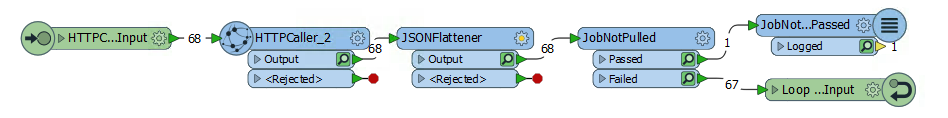
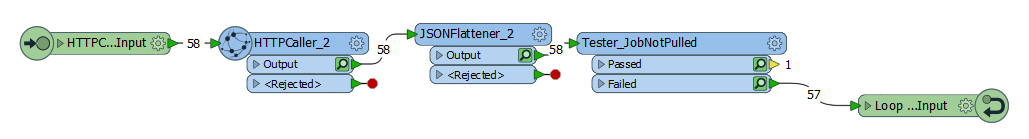
Chapter4Updates

Changed region(s): [[0.0, 0.0508, 0.9789, 0.9153]]

diff --git a/FMESERVER_RESTAPI4Workspaces/4.6.Exercise.md b/FMESERVER_RESTAPI4Workspaces/4.6.Exercise.md
@@ -44,19 +44,18 @@ the response is positive the next workspace will run. So let's begin!
 
 *Create a call to run asynchronously*
 
-<br>**1) Create a new workspace in Workbench**
+<br>**1) Create a new workspace in Workbench and add a Creator Transformer to the canvas** <br>
 
-<br>**2) Add a Creator Transformer to the Page** <br>
-First, add the creator to the page. Keeping the default settings are okay, this will just trigger the workspace to run.
+Open a new FME workspace and then add a Creator transformer to the canvas. Keeping the default settings are okay. The Creator creates a single feature which will initiate the HTTP caller.
 
-<br>**3) Add an HTTPCaller to the Page** <br>
+<br>**2) Add an HTTPCaller to the canvas** <br>
 Next, add the HTTPCaller. Use the Request URL to write a submit command. You may use the call below or test it out with another workspace.
 
 There are a few different ways to authorization with FME Server in the HTTPCaller:
 
 1. Use the token in the URL as a query string parameter
-2. Use the token in the authorization header 
-3. Check use authentication and set to basic authentication and enter your username and password 
+2. Use the token in the authorization header
+3. Check use authentication and set to basic authentication and enter your username and password
 4. Check use authentication and set up an FME Server Web Connection
 
 ---
@@ -86,7 +85,7 @@ In the beginning of the course we discussed the difference between authenticatio
 
 The first sections in the HTTPCaller to fill out is the Request and Headers. The layout in the HTTPCaller is very simple because all the areas to fill are clearly labeled.
 
-Please note this is an example call which can be found in the [Rest API POST](https://docs.safe.com/fme/html/FME_REST/apidoc/v3/index.html#!/transformations/submit_post_22) documentation. 
+Please note this is an example call which can be found in the [Rest API POST](https://docs.safe.com/fme/html/FME_REST/apidoc/v3/index.html#!/transformations/submit_post_22) documentation.
 
 
 First, paste the Request URL in. Then, change the HTTP Method to Post. Update the Headers.
@@ -129,7 +128,24 @@ Next, find the **Content Type** section and specify JSON (application/json). The
 
 
 
-<br>**4) Check the Output From the HTTPCaller**
+<br>**3) Check the Output From the HTTPCaller**
+
+<table style="border-spacing: 0px">
+<tr>
+<td style="vertical-align:middle;background-color:darkorange;border: 2px solid darkorange">
+<i class="fa fa-bolt fa-lg fa-pull-left fa-fw" style="color:white;padding-right: 12px;vertical-align:text-top"></i>
+<span style="color:white;font-size:x-large;font-weight: bold;font-family:serif">NEW to FME Workbench 2018</span>
+</td>
+</tr>
+
+<tr>
+<td style="border: 1px solid darkorange">
+<span style="font-family:serif; font-style:italic; font-size:larger">
+In this exercise we are using Feature Caching. Feature Caching is a tool that allows a user to inspect the output of every transformer in their workspace after it has run. It also allows for partial runs of a workspace. This means you do not have to start at the beginning of a workspace and run to the end. You may choose where the run begins and ends. For more information on feature caching, please read the Safe Blog post on [feature caching.](https://blog.safe.com/2018/05/caching-data-fme-evangelist174/)
+</span>
+</td>
+</tr>
+</table>
 
 Attach loggers to the HTTPCaller and run the workspace with Feature Caching turned on. To do this click Run in the top toolbar and select Run with Feature Caching.
 
@@ -142,7 +158,7 @@ The logger will write to a text file where your workspace is saved and write to 
 
 The log file includes the response body and the response code.
 
-![](./Images/image4.6.5.LogFile.png)
+![](./Images/image4.6.5.Logfile.png)
 
 
 
@@ -173,7 +189,7 @@ While the FME Server REST API does not limit the number of calls you can make. O
 
 ---
 
-<br>**5) Add a JSONFlattener to the Page**
+<br>**4) Add a JSONFlattener to the canvas**
 
 Now you can add the JSONFlattener. The JSONFlattener allows you to select a part of the JSON to expose, in our case we should expose the id, so we can use it for the next call.
 
@@ -181,7 +197,7 @@ Now you can add the JSONFlattener. The JSONFlattener allows you to select a part
 
 
 
-<br>**6) Select the JSONFlattener and Click Run To This**
+<br>**5) Select the JSONFlattener and Click Run To This**
 
 We want to review the JSONFlattener and ensure that it is producing an attribute with just the Job ID.
 
@@ -194,7 +210,7 @@ Once, we rerun the workspace, we can select the Data Inspector symbol to review 
 
 *Click the magnifying glass to review the results*
 
-![](./Images/image4.6.8.JobId.png)
+![](./Images/image4.6.8.jobid.png)
 
 *Here we can see that the new attribute was successfully created*
 
@@ -204,7 +220,7 @@ Once, we rerun the workspace, we can select the Data Inspector symbol to review 
 The goal is this next section is to send a call out to the server to check if the previous job was successful. If the call is successful, then we can run a new job. However, this workspace runs so quickly that the FME Server would not have time to process the previous job before the new call is made. So in this section, we will be creating a custom transformer that will continually get the job status until the job has been completed.
 
 
-<br>**7) Add an HTTPCaller**
+<br>**6) Add an HTTPCaller**
 
 We will add a **HTTPCaller.** In the HTTPCaller, click on the drop-down menu next to the Request URL and click open Text Editor. Paste the request and for the id double-click on this icon ![](./Images/image4.6.7a.png) from the FME Feature Attributes side panel. Your call should look like this:
 
@@ -218,11 +234,11 @@ Now for the response in the HTTPCaller, we are going to change the Response Body
 
 
 
-<br>**8) Check the Output From the HTTPCaller**
+<br>**7) Check the Output From the HTTPCaller**
 
-Now, right click on the HTTPCaller_2 and select Run to This. From here we can click on the magnifying glass to view the response.
+Now, right click on the HTTPCaller_2 and select Run to This. From here we can click on the magnifying glass to view the response in the FME Data Inspector.
 
-![](./Images/image4.6.9.HTTPCallerOutput.png)
+![](./Images/image4.6.9.Pulled.png)
 
 
 
@@ -232,10 +248,9 @@ However, at the very end, we can see the status. Here you should see "status":"P
 
 So know we need to extract that section of the response to test whether the call was successful. For that, we need another JSONFlattener.
 
-<br>**9) Add a JSONFlattener**
+<br>**8) Add a JSONFlattener**
 
- Next, we need another **JSONFlattener** to expose the
-status code from the job\_status attribute. So, for the
+ Back in FME Workbench, add another JSONFlattener. So, for the
 input parameters under JSON Document, we are going to select
 job\_status. Then under attributes to expose write status.
 
@@ -243,38 +258,51 @@ job\_status. Then under attributes to expose write status.
 
 
 
-<br>**10) Add a Tester**
+<br>**9) Add a Tester**
 
-Now we are going to add a **Tester** to determine if the workspace is pulled or run. If the status is "PULLED" then the job has not been run yet. So for the job to be completed status must not equal PULLED. The tester should be set up like this:
+Now we are going to add a **Tester** to determine if the workspace is pulled or run. If the status is "PULLED" then the job has not been run yet. So for the job to be completed status must not equal PULLED.
 
-![](./Images/image4.6.11.JobNotPulled.png)
+The Tester should be named Tester_JobNotPulled. By changing the name of a transformer it allows a user to quickly understand what the Tester is testing for.  
+
+The **left value** should be the Attribute Value status.
+
+The **operator** is !=. This means not equal.
+
+The **right value** is PULLED.
+
+The Tester is testing if the job status is not pulled. If it is pulled it will be sent to the Failed port. If it is not pulled it will go to the Passed port.
+
+
+<br> The tester should be set up like this:
+
+![](./Images/image4.6.11.TesterJobNotPulled.png)
 
 
 
 If the status is PULLED, then the job has not been run, and we need to rerun the call to check the status. To do this, we need to make a custom transformer with a looper.
 
-<br>**11) Create a custom transformer**
+<br>**10) Create a custom transformer**
 
 Select HTTPCaller_2, JSONFlattener_2, and JobNotPulled, right click and select Create Custom Transformer.
 
-![](./Images/image4.6.12.Custom.png)
+![](./Images/image4.6.12.CustomTransformers.png)
 
 
 
 Enter in the following details:
 
-- **Name:** JobStatusTester 
-- **Category:** Web 
-- **Overview:** This transformer will continue to check if the job has been passed from the PULLED stage. 
+- **Name:** JobStatusTester
+- **Category:** Web
+- **Overview:** This transformer will continue to check if the job has been passed from the PULLED stage.
 
 
 Click OK. The custom transformer should look like this:
 
-![](./Images/image4.6.13.CustomTransformer.png)
+![](./Images/image4.6.13.JobStatusTester.png)
 
 
 
-<br>**12) Add a Looper Transformer**
+<br>**11) Add a Looper Transformer**
 
 Right click on the workspace and select Insert Transformer Loop. You will receive a dialog that says: Select Input to Loop to. The default will say Loop to: HTTPCaller_2_Input.
 
@@ -283,27 +311,39 @@ This means that is will loop the HTTPCaller_2 which will check the job id again.
 Run the workspace!
 
 
-![](./Images/image4.6.14.CustomFull.png)
+![](./Images/image4.6.14.CustomOverview.png)
 
 
 
 Once we have run the workspace we should see something like this:
 
-![](./Images/image4.6.15.CustomRan.png)
+![](./Images/image4.6.15.CustomRun.png)
 
 
 
-The custom transformer has to run 70 times before it passes the last tester. However, the total translation is only 3.6 seconds.
+The custom transformer has to run 57 times before it passes the last tester. However, the total translation is only 3.8 seconds.
 
-<br>**13) Add an Output to the Custom Transformer.**  
+<br>**12) Add an Output to the Custom Transformer.**  
 
-Right click and select Insert Transformer Output and attach it to JobNotPulled passed. *Now, we can switch back to the main page.*   
+Right click and select Insert Transformer Output and attach it to Tester_JobNotPulled passed. *Now, we can switch back to the main canvas.*   
 
-<br>**14) Add a Tester**
+<br>**13) Add a Tester**
 
-Now we are going to add a **Tester** to determine if the workspace was successfully run. The tester should be set up like this:
+Now we are going to add a **Tester** to determine if the workspace was successfully run.
 
-![](./Images/image4.6.15.Test.png)
+The Tester should be named Tester_Successfully_Run. By changing the name of a transformer it allows a user to quickly understand what the Tester is testing for.  
+
+The **left value** should be the Attribute Value status.
+
+The **operator** is =.
+
+The **right value** is SUCCESS.
+
+This is testing if the status of the job is equal to success.
+
+The tester should be set up like this:
+
+![](./Images/image4.6.16.SuccessTester.png)
 
 
 
@@ -311,7 +351,7 @@ If the status is SUCCESS, then the job was successfully run on the FME Server, a
 
 ***New Job is Run***
 
-<br>**15) Add another HTTPCaller**
+<br>**14) Add another HTTPCaller**
 
 Finally, use a third HTTPCaller to run a new job synchronously.
 To do this use the same call that we had previously used, this is the Transact Call.
@@ -353,7 +393,7 @@ and using the response to determine the next action.
 
 The final workspace should look like this:
 
-![](./Images/image4.6.17.Final.png)
+![](./Images/image4.6.17.FinalWorkspace.png)
 
 ---
 

diff --git a/FMESERVER_RESTAPI4Workspaces/4.4.TransactData.md b/FMESERVER_RESTAPI4Workspaces/4.4.TransactData.md
@@ -137,6 +137,8 @@ Call your Repository RESTTraining
 
 <br> Save the Workspace as Chapter4Exercise7.Complete and select the box to upload data files
 
+![](./Images/image4.4.9b.UploadSettings.png)
+
 Click Next.
 
 <br>Upload using  the Job Submitter Service
@@ -167,9 +169,9 @@ Go to Resources > Data > RESTTraining and ensure a Shapefile was produced.
 
 ![](./Images/image4.4.11.Resources.png)
 
+Delete the Shapefile. This is done by selecting all files and then select Actions and selecting delete. We are deleting the Shapefile because we are going to use the REST API to submit this job again. 
 
-
-**Delete the Shapefile**
+![](./Images/image4.4.11b.Deletes.png)
 
 <br>**8) Use Postman to complete the Transact Data Call**
 

diff --git a/FMESERVER_RESTAPI4Workspaces/4.5.UsingRest.md b/FMESERVER_RESTAPI4Workspaces/4.5.UsingRest.md
@@ -1,8 +1,6 @@
 ### 4.5 Using REST API Commands in a Workspace
 
-You can use the calls you learned in this tutorial in a workspace
-created. With each call, you can format a new call within the REST API.
-This is an excellent way to work with the REST API without any coding
+All of the calls that have been practiced in this tutorial can be used in an FME Workspace.This is an excellent way to work with the REST API without any coding
 experience.
 
 There are some transformers you should be aware of before we get
